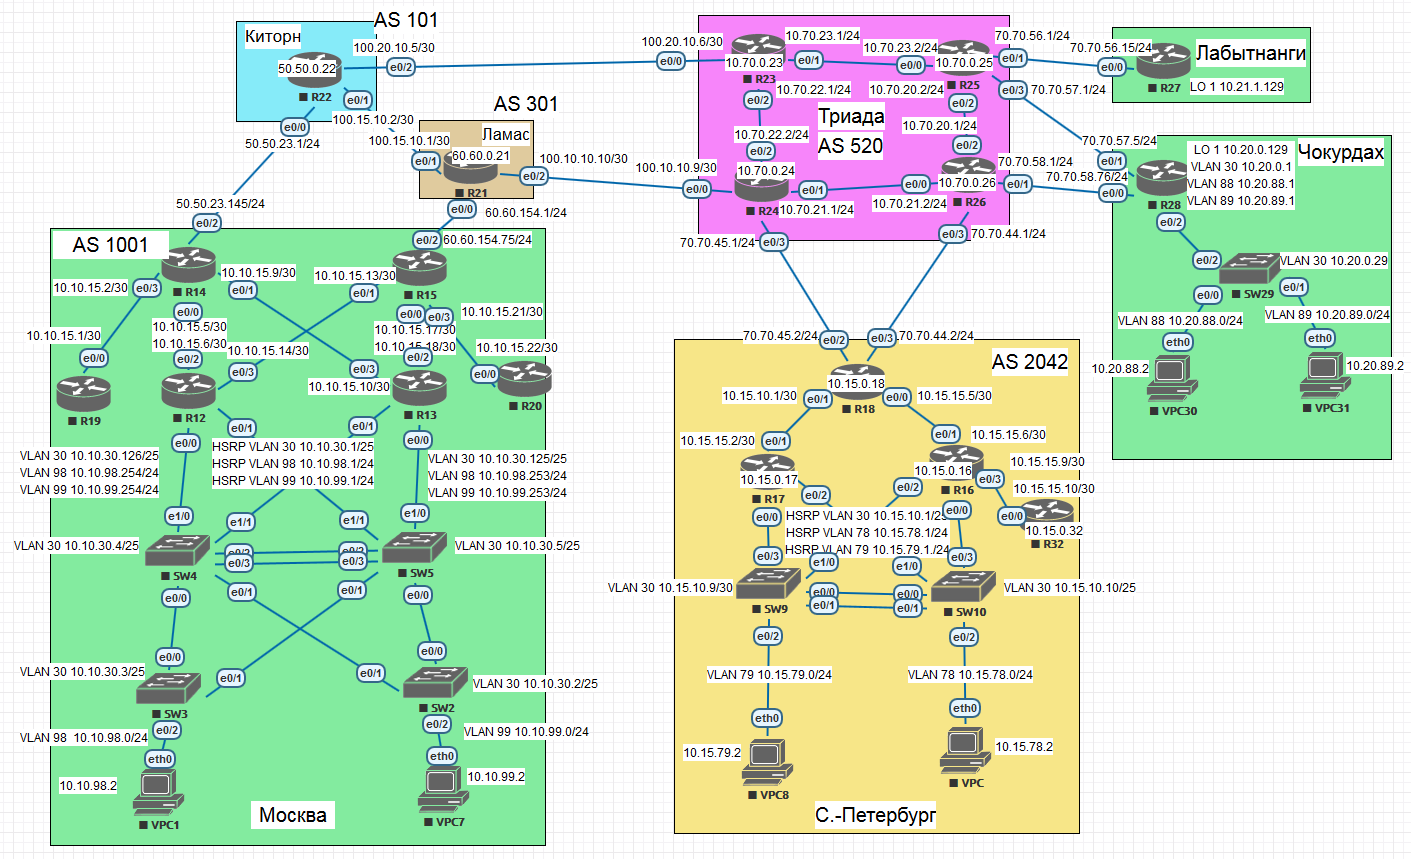
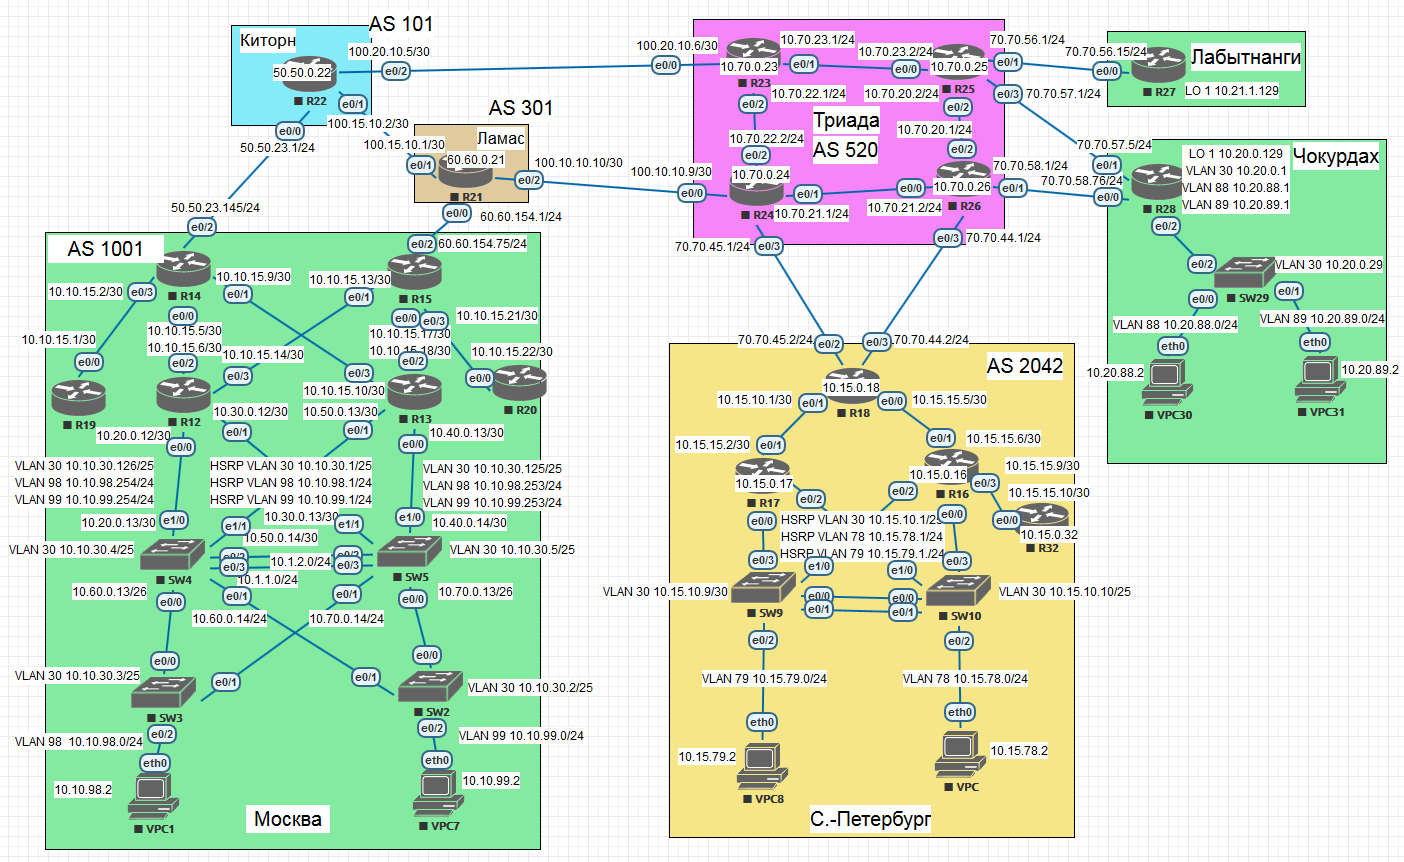
add addresses for R12 & R13 and SW4 & SW5

Changed region(s): [[0.0, 0.0, 1.0, 0.9988], [0.5819, 0.9383, 0.6738, 0.9686], [0.1531, 0.9383, 0.245, 0.9686]]

diff --git a/labs/04-ipv46-planing/README.md b/labs/04-ipv46-planing/README.md
@@ -26,12 +26,16 @@
 | R15          | e0/1       | 10.10.15.13   | 255.255.255.252 |            | 2001:1001:0:4::1       | /64          |                     | FE80::1500/10 |
 | R15          | e0/3       | 10.10.15.21   | 255.255.255.252 |            | 2001:1001:0:6::1       | /64          |                     | FE80::1500/10 |
 | R12          | Lo1        | 10.10.0.12    | 255.255.255.255 |            | 2001:1001:1000::12     | /128         |                     | FE80::1200/10 |
+| R12          | e0/0       | 10.20.0.12    | 255.255.255.252 |            | 2001:1001:0:0::2       | /64          |                     | FE80::1200/10 |
+| R12          | e0/1       | 10.30.0.12    | 255.255.255.252 |            | 2001:1001:0:1::2       | /64          |                     | FE80::1200/10 | 
 | R12          | e0/2       | 10.10.15.6    | 255.255.255.252 |            | 2001:1001:0:2::2       | /64          |                     | FE80::1200/10 |
 | R12          | e0/3       | 10.10.15.14   | 255.255.255.252 |            | 2001:1001:0:4::2       | /64          |                     | FE80::1200/10 |
 | R12          | VLAN98     | 10.10.98.254  | 255.255.255.0   |            | 2001:1001:0:1000::1000 | /64          |                     | FE80::1200/10 |
 | R12          | VLAN99     | 10.10.99.254  | 255.255.255.0   |            | 2001:1001:0:2000::1000 | /64          |                     | FE80::1200/10 |
 | R12          | VLAN30     | 10.10.30.126  | 255.255.255.128 |            | 2001:1001::1000        | /64          |                     | FE80::1200/10 |
 | R13          | Lo1        | 10.10.0.13    | 255.255.255.255 |            | 2001:1001:1000::13     | /128         |                     | FE80::1300/10 |
+| R13          | e0/0       | 10.40.0.13    | 255.255.255.252 |            | 2001:1001:0:7::2       | /64          |                     | FE80::1300/10 |
+| R13          | e0/1       | 10.50.0.13    | 255.255.255.252 |            | 2001:1001:0:6::2       | /64          |                     | FE80::1300/10 |
 | R13          | e0/2       | 10.10.15.18   | 255.255.255.252 |            | 2001:1001:0:5::2       | /64          |                     | FE80::1300/10 |
 | R13          | e0/3       | 10.10.15.10   | 255.255.255.252 |            | 2001:1001:0:3::2       | /64          |                     | FE80::1300/10 |
 | R13          | VLAN98     | 10.10.98.253  | 255.255.255.0   |            | 2001:1001:0:1000::1001 | /64          |                     | FE80::1300/10 |
@@ -44,7 +48,15 @@
 | SW3          | VLAN30     | 10.10.30.3    | 255.255.255.128 |            | 2001:1001::3           | /64          | 2001:1001::1        | FE80::1403/10 |
 | SW2          | VLAN30     | 10.10.30.2    | 255.255.255.128 |            | 2001:1001::2           | /64          | 2001:1001::1        | FE80::1403/10 |
 | SW4          | VLAN30     | 10.10.30.4    | 255.255.255.128 |            | 2001:1001::4           | /64          | 2001:1001::1        | FE80::1403/10 |
+| SW4          | e0/0       | 10.60.0.13    | 255.255.255.64  |            | 2001:1001::5           | /64          | 2001:1001::1        | FE80::1403/10 |
+| SW4          | e0/1       | 10.20.0.13    | 255.255.255.0   |            | 2001:1001::6           | /64          | 2001:1001::1        | FE80::1403/10 |
+| SW4          | e0/3       | 10.1.1.0      | 255.255.255.0   |            | 2001:1001::7           | /64          | 2001:1001::1        | FE80::1403/10 |
+| SW4          | e1/1       | 10.50.0.14    | 255.255.255.252 |            | 2001:1001::8           | /64          | 2001:1001::1        | FE80::1403/10 |
 | SW5          | VLAN30     | 10.10.30.5    | 255.255.255.128 |            | 2001:1001::5           | /64          | 2001:1001::1        | FE80::1403/10 |
+| SW5          | e0/0       | 10.70.0.13    | 255.255.255.64  |            | 2001:1001::9           | /64          | 2001:1001::1        | FE80::1403/10 |
+| SW5          | e0/1       | 10.70.0.14    | 255.255.255.0   |            | 2001:1001::10          | /64          | 2001:1001::1        | FE80::1403/10 |
+| SW5          | e0/3       | 10.1.2.0      | 255.255.255.0   |            | 2001:1001::11          | /64          | 2001:1001::1        | FE80::1403/10 |
+| SW5          | e1/1       | 10.30.0.13    | 255.255.255.252 |            | 2001:1001::23          | /64          | 2001:1001::1        | FE80::1403/10 |
 | VPC1         | eth0       | 10.10.98.2    | 255.255.255.0   | 10.10.98.1 | 2001:1001:0:1000::2    | /64          | 2001:1001:0:1000::1 | FE80::1403/10 |
 | VPC7         | eth0       | 10.10.99.2    | 255.255.255.0   | 10.10.99.1 | 2001:1001:0:2000::2    | /64          | 2001:1001:0:2000::1 | FE80::1403/10 |
 
